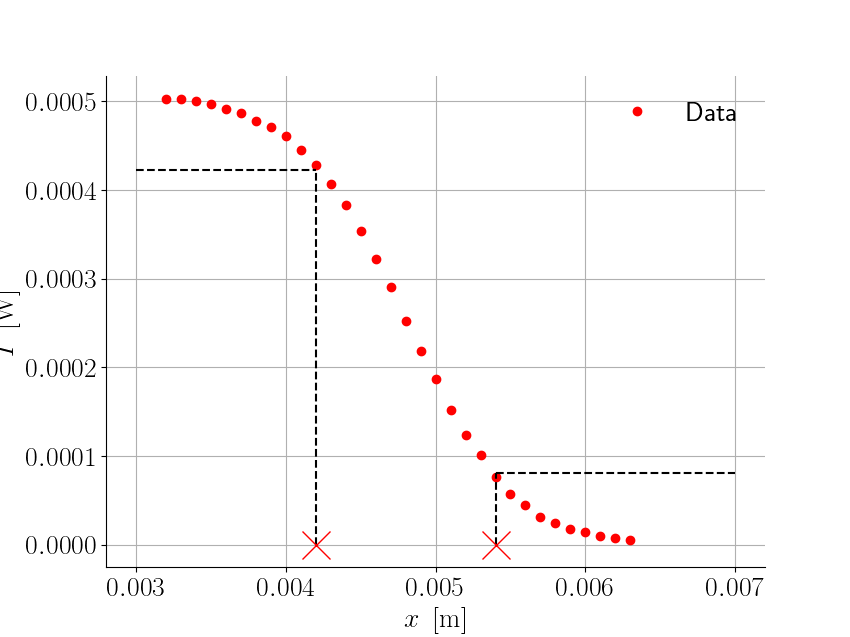
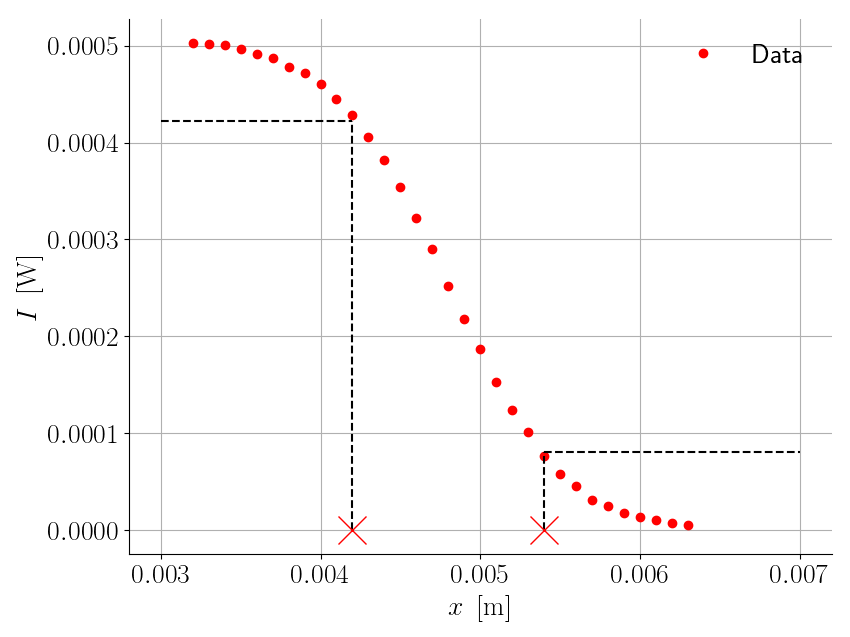
hej

diff --git a/FinalProjekt/Databehandling_modul2.tex b/FinalProjekt/Databehandling_modul2.tex
@@ -11,15 +11,25 @@ Efter at have målt switchen, som beskrevet i \cref{dataopsamling2}, konkluderes
 \end{figure}
 På \cref{fig:graf3} ses det at intensiteten af strålen falder mest når kniven er omkring midten af strålen, hvilket giver god mening idet at vi forventer at strålen fordeler sig omkring sin akse og vi dermed rammer mere af strålen omkring centrum. Umiddelbart ser figuren symmetrisk ud på den måde at den bevæger sig ensartet i bunden af grafen og toppen af grafen, hvilket understøtter forventningen om at strålen fordeler sig ensartet omkring laserens akse.
 Ud fra figuren her kan waist, $w_0$ findes ved at indsætte nogle hjælpelinjer, netop da waist vil være forskellen i længde mellem de to punkter hvor intensiteten er 84\% og 16\% af max intensiteten.
-\begin{figure}
+\begin{figure}[H]
   \centering
   \includegraphics[width=\linewidth]{tegninger/graf_find_w.png}
   \caption{}
   \label{fig:graf_find_w}
 \end{figure}
-På \cref{fig:graf_find_w} ses de omtalte linjer og to røde krydser. De røde krydser indikerer punkterne hvor intensiteten er 84\% og 16\%. Det findes ud fra dette at afstanden mellem de to kryder bliver, $w_0 = 1,2 \pm 0,1 \ \si{\milli\meter}$. Usikkerheden her er netop usikkerheden på længdemålingerne, som grundet millimeterskruen er $0,1 \si{\milli\meter}$.
+På \cref{fig:graf_find_w} ses de omtalte linjer og to røde krydser. De røde krydser indikerer punkterne hvor intensiteten er 84\% og 16\%. Det findes ud fra dette at afstanden mellem de to kryder bliver, $w_0 = 1,2 \pm 0,1 \ \si{\milli\meter}$. Usikkerheden her er netop usikkerheden på længdemålingerne, som grundet millimeterskruen er $\SI{0,1}{\milli\meter}$. Det skal lige nævnes her at den omtalte waist her ikke er den sande waist idet at forsøgsopstillingen var lidt forkert, men at dette er metoden som bruges til at udregne waist.
 
 Man kan også bestemme waist, $w_0$ ved at fitte til en funktion af typen som ses på \cref{eq:errorfunc}. Det har dog ikke været muligt grundet tekniske vanskeligheder.
 
+Der er blevet bestemt tre andre waists som der er lavet risetime målinger med.
+På \cref{fig:screenfigur} ses en måling af risetime med indstillede cursors. Denne måling er taget med en linse med brændvidde $F = \SI{50}{\milli\meter}$.
+\begin{figure}[H]
+  \includegraphics[width=\linewidth]{tegninger/screenfigur.png}
+  \caption{}
+  \label{fig:screenfigur}
+\end{figure}
+Denne måling er taget med en waist på $w_0 = \SI{0,213}{\milli\meter}$.
+
+Der er yderligere taget målinger med fokallængder på $ $
 
 \end{document}

diff --git a/FinalProjekt/lab.py b/FinalProjekt/lab.py
@@ -234,8 +234,8 @@ x = np.arange(3.20, 3.20 + a, 0.1)*10**(-3) # målinger med kniv foran stråle i
 # 84 = 4.585
 # 16 = 4.705
 
-d = 4.705 - 4.585
-k_what = 3.618 - 3.405
+w01 = (4.705 - 4.585)*10**(-3)
+w02 = (3.618 - 3.405)*10**(-3)
 
 
 
@@ -303,6 +303,7 @@ plt.plot(waist_x[1],waist_y[1],'rx',markersize = 20)
 plt.xlabel(r'$x \ \left[\si{\meter}\right]$')
 plt.ylabel(r'$I \ \left[\si{\watt}\right]$')
 plt.legend()
+plt.tight_layout()
 plt.savefig('tegninger/graf_find_w.png')
 
 
@@ -320,21 +321,41 @@ kniv = np.array([3.51, 3.60 ])*10**-3
 #Imin =
 #Hoej =
 
-w0 = kniv[1] - kniv[0]
+w001 = kniv[1] - kniv[0]
+print(w001*10**3)
 
 def lydhastighed(risetime, w0):
     vs = 0.64*(2*w0/ risetime)
     return(vs)
 
-risetime = np.array([112, 200]) * 10 **-9
+risetime = np.array([112, 200, 145, 198.2, 273.9, 388.6, 438]) * 10 **-9
 #%%
 
-i  = np.ones(np.size(risetime))* w0# * 0.2 * 10**-3
+waists = np.array([w01,w01,w01,w01, w02,w02,w02])# * 0.2 * 10**-3
+sds_waist = 0.1/1000 #  0.1 mm
+# print(waists*10**3)
+# print('risetime = ',np.sort(risetime,axis=0))
 
-vs = lydhastighed(risetime, i)
+def fit_func_rise(w0, k):
+    T = k * w0 # k = 0.64 * 2 / v_s   --> vs = 0.64*2/k
+    return T
+k_rise, c_rise, r_value_rise, p_value_rise, sds_k_rise = stats.linregress(waists, risetime)
 
+x_fit_lin = np.linspace(0,waists[-1]+0.0002,100)
+linje = k_rise*x_fit_lin+c_rise
 
+plt.figure()
+plt.plot(x_fit_lin,linje,'r--',label = 'Fit')
+plt.errorbar(waists,risetime,fmt = 'ok',xerr = sds_waist, yerr = 0,label='Datapunkter')
+plt.xlabel(r'$w_0 \left[\si{\meter}\right]$')
+plt.ylabel(r'$T_r \left[\si{\second}\right]$')
+plt.legend()
 
+v_s_rise = 0.64*2/k_rise
+
+sds_v_s_rise = (0.64*2/k_rise**2)*sds_k_rise
+
+print(v_s_rise, '+-', sds_v_s_rise)
 # 50 OHM VED OSCILLOSKOP
 # 16 OG 84 til w0
 # 90 OG 10 til risetime
